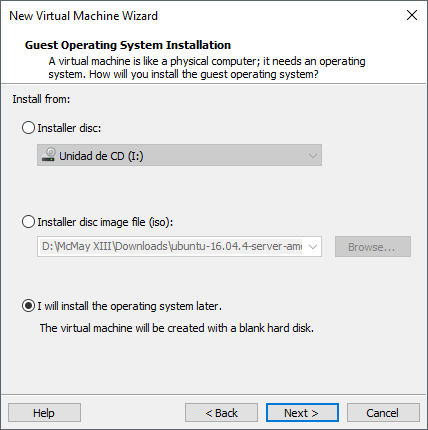
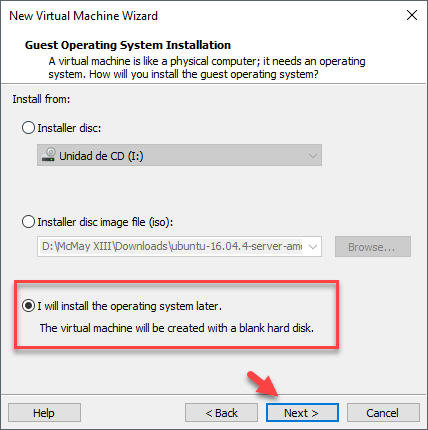
a

Changed region(s): [[0.0304, 0.6349, 0.8201, 0.9372]]

diff --git a/Pracctica 1/README.md b/Pracctica 1/README.md
@@ -14,6 +14,10 @@ En primer lugar pulsamos sobre el icono ***Create a New Virtual Machine*** que s
 
 ![img](https://github.com/McMayXIII/Servidores-Web-Altas-Prestaciones/blob/master/Pracctica%201/image/img1.png)
 
+Seleccionamos la intalación ***Typica*** y pulsamos en next, a continuación seleccionamos la opción ***I will the operating system later. The virtual machine will be created with a blank hard disk*** (para insertar posteriormente la ISO de Ubuntu Server 16.04 LTS 64bits) y pulsamos en next.
 
+![img](https://github.com/McMayXIII/Servidores-Web-Altas-Prestaciones/blob/master/Pracctica%201/image/img2.png) ![img](https://github.com/McMayXIII/Servidores-Web-Altas-Prestaciones/blob/master/Pracctica%201/image/img3.png)
 
-![img](https://github.com/McMayXIII/Servidores-Web-Altas-Prestaciones/blob/master/Pracctica%201/image/img2.png)![img](https://github.com/McMayXIII/Servidores-Web-Altas-Prestaciones/blob/master/Pracctica%201/image/img3.png)
+En el siguiente paso seleccionmos el systema que vamos a usar ***LINUX*** y la version ***Ubuntu 64-bits*** y le asignamos un nombre.
+
+![img](https://github.com/McMayXIII/Servidores-Web-Altas-Prestaciones/blob/master/Pracctica%201/image/img4.png) ![img](https://github.com/McMayXIII/Servidores-Web-Altas-Prestaciones/blob/master/Pracctica%201/image/img5.png)
